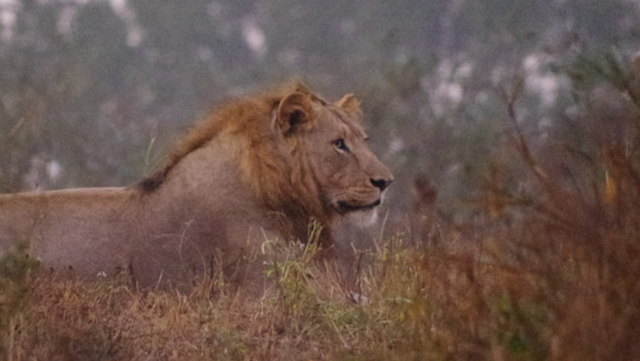
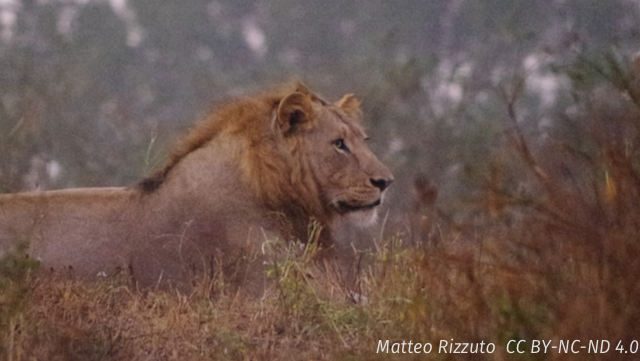
Added watermarks to all new pictures

Changed region(s): [[0.5938, 0.9446, 1.0, 0.9751]]

diff --git a/_pastresearch/7_VertebratesStoich.md b/_pastresearch/7_VertebratesStoich.md
@@ -5,9 +5,9 @@ collection: pastresearch
 excerpt: 'What chemical elements make up a vertebrate and in what proportions? Working with theoretical, wildlife, and landscape ecologists, I studied the elemental composition of a small vertebrate and how it varies among individuals. Photo credit: Juliana Balluffi-Fry.'
 ---
 
-<!-- <img src="../images/lyinghare.png" alt="Snowshoe hares are a keystone species in the boreal forests of North America" style = "width:400px;height:250px;margin-right:15px;float:left"> -->
+<img src="../images/lyinghare.png" alt="Snowshoe hares are a keystone species in the boreal forests of North America" style = "width:400px;height:250px;margin-right:15px;float:left">
 All life is made up of about 25 chemical elements, arranged in differentproportion among different organisms. The first chapter of my PhD thesis investigated what drivers the elemental composition of a terrestrial vertebrate, the snowshoe hare. With my coauthors, we collected data on elemental composition of these herbivores. We observed a lot of variability in the concentrations of carbon, nitrogen, and phosphorus in our study animals. However, when we used regression models to investigate this variability, we only found weak evidence that the set of variables we were testing had an influence on the variation in carbon, nitrogen, and phosphorus composition of our snowshoe hares. Our work was among the first to attempt this sort of analyses for a terrestrial vertebrate, and highlighted how much more variable these organisms can be in terms of their content of key chemical elements.
-<!-- Photo credit: [Juliana Balluffi-Fry](https://twitter.com/balluffi) -->
+Photo credit: [Juliana Balluffi-Fry](https://twitter.com/balluffi)
 
 ## Relevant Publications
 <a href="https://onlinelibrary.wiley.com/doi/full/10.1002/ece3.5880">Patterns and potential drivers of intraspecific variability in the body C, N, and P composition of a terrestrial consumer, the snowshoe hare (<i>Lepus americanus</i>)</a>
